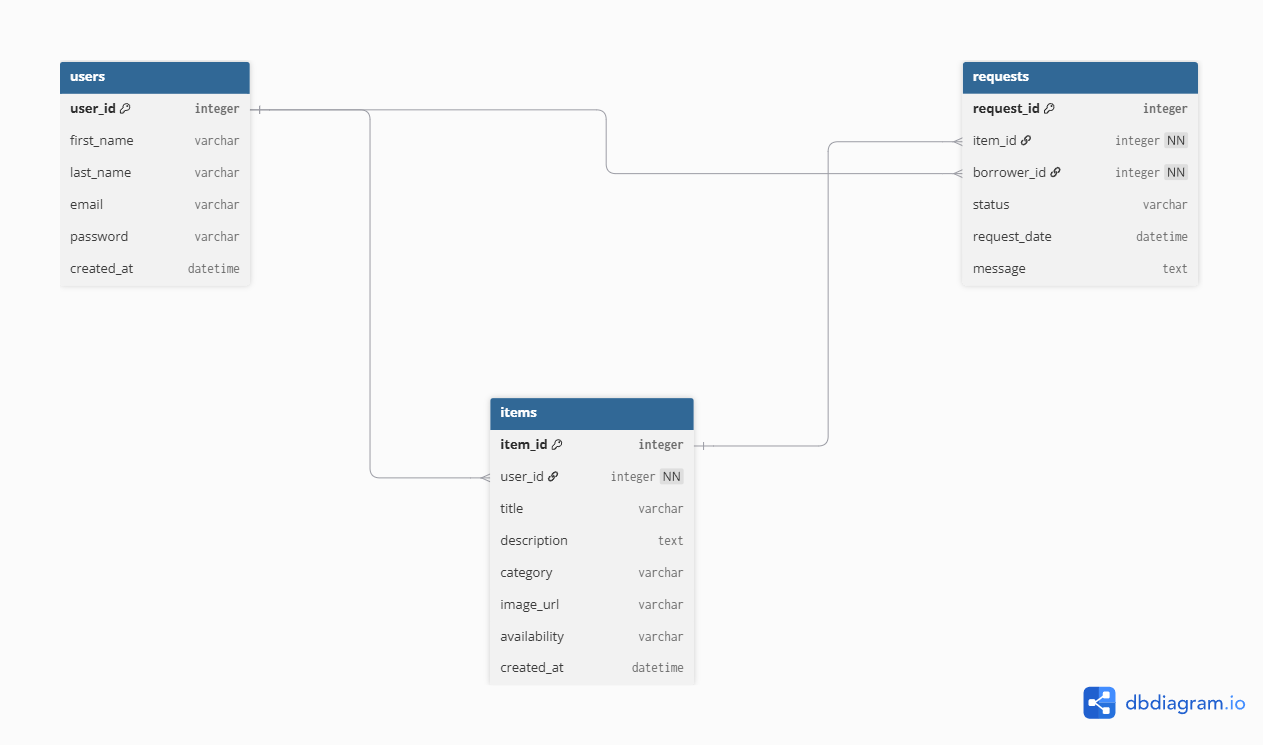
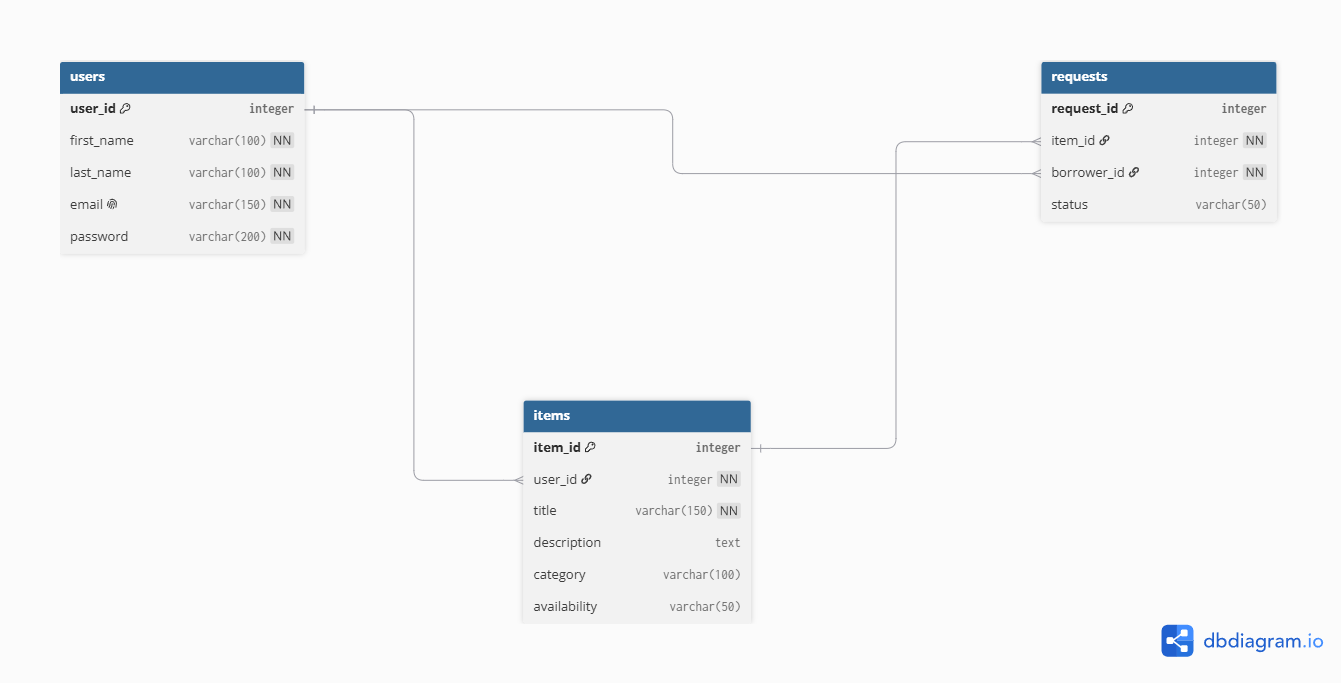
Update data model and ER diagram

diff --git a/database/models.py b/database/models.py
@@ -11,7 +11,6 @@ class User(db.Model):
     last_name = db.Column(db.String(100), nullable=False)
     email = db.Column(db.String(150), unique=True, nullable=False)
     password = db.Column(db.String(200), nullable=False)
-    created_at = db.Column(db.DateTime, default=datetime.utcnow)
 
     items = db.relationship("Item", backref="owner", lazy=True)
     requests = db.relationship("Request", backref="borrower", lazy=True)
@@ -26,10 +25,8 @@ class Item(db.Model):
     title = db.Column(db.String(150), nullable=False)
     description= db.Column(db.Text)
     category = db.Column(db.String(100))
-    image_url = db.Column(db.String(300))
     availability = db.Column(db.String(50), default="available")
-    created_at= db.Column(db.DateTime, default=datetime.utcnow)
-
+   
 
 
 class Request(db.Model):
@@ -39,5 +36,4 @@ class Request(db.Model):
     item_id= db.Column(db.Integer, db.ForeignKey("items.item_id"), nullable=False)
     borrower_id = db.Column(db.Integer, db.ForeignKey("users.user_id"), nullable=False)
     status = db.Column(db.String(50), default="pending")
-    request_date = db.Column(db.DateTime, default=datetime.utcnow)
-    message= db.Column(db.Text)
+  

diff --git a/evidence/data-model.md b/evidence/data-model.md
@@ -2,7 +2,7 @@
 
 ## Ziel des Datenmodells 
 
-Das Datenmodell beschreibt, welche Daten die Anwendung speichern muss und wie diese Daten miteinander verbunden sind.
+Das Datenmodell beschreibt, welche Daten die Anwendung speichern muss und wie diese miteinander verbunden sind.
 
 Für LocalLend werden drei zentrale Datenbereiche benötigt:
 
@@ -10,23 +10,21 @@ Für LocalLend werden drei zentrale Datenbereiche benötigt:
 - Gegenstände
 - Ausleihanfragen
 
-Diese drei Bereiche bilden die Grundlage für den Happy Path der Anwendung.
+Diese drei Bereiche bilden die Grundlage für den gesamten Happy Path der Anwendung.
 
 ---
 
-## Übersicht der Tabellen
-
-Das Datenmodell besteht aus drei Haupttabellen:
+# Übersicht der Tabellen
 
 | Tabelle | Zweck |
-| --- | --- |
-| users | Speichert registrierte Nutzer | 
+|----------|-------|
+| users | Speichert registrierte Nutzer |
 | items | Speichert Gegenstände, die verliehen werden können |
 | requests | Speichert Ausleihanfragen zwischen Nutzern und Gegenständen |
 
 ---
 
-## Beziehungen zwischen den Tabellen
+# Beziehungen zwischen den Tabellen
 
 Ein Nutzer kann mehrere Gegenstände einstellen.
 
@@ -34,150 +32,177 @@ Ein Gegenstand gehört genau einem Nutzer.
 
 Ein Nutzer kann mehrere Ausleihanfragen stellen.
 
-Eine Ausleihanfrage bezieht sich genau auf einen Gegenstand.
+Eine Ausleihanfrage bezieht sich immer genau auf einen Gegenstand.
 
-```text
+```
 users
-  1 ─── n items
+  │
+  ├──── items
 
 users
-  1 ─── n requests
+  │
+  └──── requests
 
 items
-  1 ─── n requests
+  │
+  └──── requests
 ```
-  ## Tabelle: users
 
-  Speichert alle registrierten Nutzer der Plattforrm.
+---
 
-  | Feld | Datentyp | Beschreibung |
-|--------|--------|--------|
+# Tabelle: users
+
+Speichert alle registrierten Nutzer der Plattform.
+
+| Feld | Datentyp | Beschreibung |
+|------|----------|--------------|
 | user_id | INTEGER | Eindeutige Nutzer-ID (Primary Key) |
-| first_name | TEXT | Vorname des Nutzers |
-| last_name | TEXT | Nachname des Nutzers |
+| first_name | TEXT | Vorname |
+| last_name | TEXT | Nachname |
 | email | TEXT | E-Mail-Adresse |
-| password | TEXT | Passwort (verschlüsselt gespeichert) |
-| created_at | DATETIME | Zeitpunkt der Registrierung |
+| password | TEXT | Verschlüsseltes Passwort |
 
-#### Primärschlüssel
+## Primärschlüssel
 
 - user_id
 
-### Begründung
+## Begründung
 
-Jeder Nutzer benötigt eine eindeutige ID, damit Gegenstände und Ausleihanfragen eindeutig zugeordnet werden können.
+Jeder Nutzer benötigt eine eindeutige ID.
 
-Die E-Mail-Adresse dient der Anmeldung und eindeutigen Identifikation des Nutzers.
+Die E-Mail dient gleichzeitig als eindeutiger Login.
 
-## Tabelle: items
+Das Passwort wird verschlüsselt gespeichert.
 
-Speichert alle Gegenstände, die von Nutzern zum Verleihen angeboten werden.
+---
+
+# Tabelle: items
+
+Speichert alle Gegenstände, die Nutzer verleihen möchten.
 
 | Feld | Datentyp | Beschreibung |
-|--------|--------|--------|
-| item_id | INTEGER | Eindeutige Gegenstand-ID (Primary Key) |
+|------|----------|--------------|
+| item_id | INTEGER | Eindeutige Gegenstands-ID (Primary Key) |
 | user_id | INTEGER | Besitzer des Gegenstands (Foreign Key) |
 | title | TEXT | Name des Gegenstands |
-| description | TEXT | Beschreibung des Gegenstands |
-| category | TEXT | Kategorie des Gegenstands |
-| image_url | TEXT | Bild des Gegenstands |
-| availability | TEXT | Verfügbarkeitsstatus |
-| created_at | DATETIME | Zeitpunkt der Erstellung |
+| description | TEXT | Beschreibung |
+| category | TEXT | Kategorie |
+| availability | TEXT | Aktueller Verfügbarkeitsstatus |
 
-### Primärschlüssel
+## Primärschlüssel
 
-- item_id 
+- item_id
 
 ## Fremdschlüssel
 
-- user_id -> users.user_id
+- user_id → users.user_id
 
 ## Begründung
 
 Jeder Gegenstand gehört genau einem Nutzer.
-Über die user_id kann nachvollzogen werden, welcher Nutzer den Gegenstand eingestellt hat.
 
-Die Felder Titel, Beschreibung und Kategorie ermöglichen eine übersichtliche Darstellung und Suche innerhalb der Plattform.
+Dadurch weiß das System jederzeit, wem der Gegenstand gehört.
 
-Der Verfügbarkeitsstatus zeigt an, ob ein Gegenstand aktuell ausgeliehen werden kann.
+Das Feld **availability** zeigt den aktuellen Zustand des Gegenstands.
 
-## Tabelle: requests
+Mögliche Werte:
 
+- available
+- borrowed
+
+Wird eine Anfrage angenommen, wird der Gegenstand auf **borrowed** gesetzt.
+
+Nach der Rückgabe erhält er wieder den Status **available**.
+
+---
+
+# Tabelle: requests
 
 Speichert alle Ausleihanfragen zwischen Nutzern und Gegenständen.
 
 | Feld | Datentyp | Beschreibung |
-|--------|--------|--------|
+|------|----------|--------------|
 | request_id | INTEGER | Eindeutige Anfrage-ID (Primary Key) |
 | item_id | INTEGER | Angefragter Gegenstand (Foreign Key) |
 | borrower_id | INTEGER | Nutzer, der die Anfrage stellt (Foreign Key) |
 | status | TEXT | Status der Anfrage |
 | request_date | DATETIME | Zeitpunkt der Anfrage |
-| message | TEXT | Optionale Nachricht des Nutzers |
+| message | TEXT | Optionale Nachricht |
 
-### Primärschlüssel
+## Primärschlüssel
 
 - request_id
 
-### Fremdschlüssel
+## Fremdschlüssel
 
 - item_id → items.item_id
+
 - borrower_id → users.user_id
 
-### Begründung
+## Begründung
 
-Die Tabelle requests speichert alle Ausleihanfragen innerhalb der Plattform.
+Die Tabelle requests verwaltet den kompletten Ausleihprozess.
 
-Über item_id wird festgelegt, welcher Gegenstand angefragt wird.
+Über item_id wird gespeichert, welcher Gegenstand ausgeliehen werden soll.
 
 Über borrower_id wird gespeichert, welcher Nutzer die Anfrage gestellt hat.
 
-Das Statusfeld ermöglicht die Verwaltung des Anfrageprozesses.
+Der Status beschreibt den aktuellen Stand der Anfrage.
 
 Mögliche Statuswerte:
 
 - pending
 - accepted
 - rejected
+- returned
 
-## Zusammenfassung des Datenmodells
+Bedeutung:
 
-Das Datenmodell basiert auf drei zentralen Tabellen:
+- pending → Anfrage wurde gestellt.
+- accepted → Anfrage wurde angenommen.
+- rejected → Anfrage wurde abgelehnt.
+- returned → Gegenstand wurde erfolgreich zurückgegeben.
 
-### users
+---
+
+# Zusammenfassung des Datenmodells
+
+Das Datenmodell basiert auf drei zentralen Tabellen.
+
+## users
 
 Verwaltet alle registrierten Nutzer.
 
-### items
+## items
 
-Verwaltet alle Gegenstände, die zum Verleihen angeboten werden.
+Verwaltet alle angebotenen Gegenstände.
 
-### requests
+Über das Feld **availability** erkennt das System sofort, ob ein Gegenstand ausgeliehen werden kann.
 
-Verwaltet alle Ausleihanfragen zwischen Nutzern und Gegenständen.
+## requests
 
-### Datenbankstruktur
+Verwaltet sämtliche Ausleihanfragen.
 
-```text
-users
-│
-├── items
-│     └── requests
-│
-└── requests
-```
+Der Status dokumentiert den gesamten Ablauf einer Ausleihe – von der Anfrage bis zur Rückgabe.
 
-Dieses Modell unterstützt den vollständigen Happy Path von LocalLend:
+---
+
+# Happy Path
+
+Dieses Datenmodell unterstützt den vollständigen Ablauf von LocalLend:
 
 1. Nutzer registriert sich.
 2. Nutzer erstellt einen Gegenstand.
-3. Anderer Nutzer durchsucht verfügbare Gegenstände.
+3. Ein anderer Nutzer durchsucht verfügbare Gegenstände.
 4. Nutzer stellt eine Ausleihanfrage.
-5. Anfrage wird angenommen oder abgelehnt.
-
+5. Der Verleiher akzeptiert oder lehnt die Anfrage ab.
+6. Bei Annahme erhält der Request den Status **accepted** und der Gegenstand den Status **borrowed**.
+7. Nach der Rückgabe erhält der Request den Status **returned**.
+8. Der Gegenstand wird wieder auf **available** gesetzt und kann erneut ausgeliehen werden.
 
 ## ER- Diagramm
 
 Das folgende Diagramm zeigt die Beziehungen zwischen den Tabellen `users`, `items` und `requests`.
 
-![ER-Diagramm](./er-diagramm.png)
+![ER-Diagramm](./ER-diagramm.png)
+